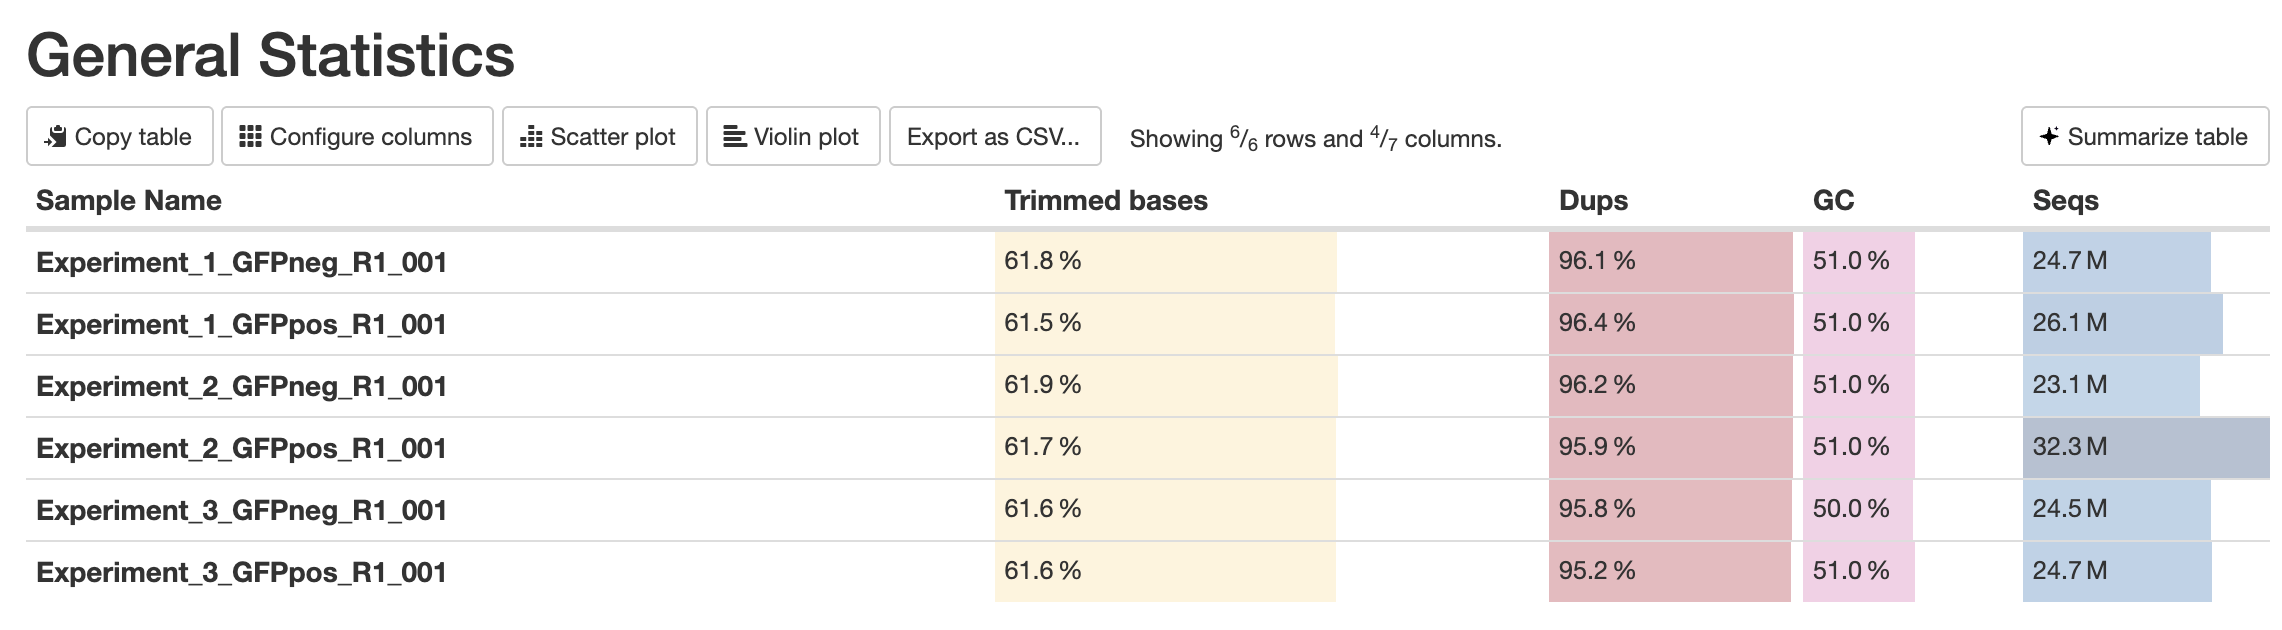
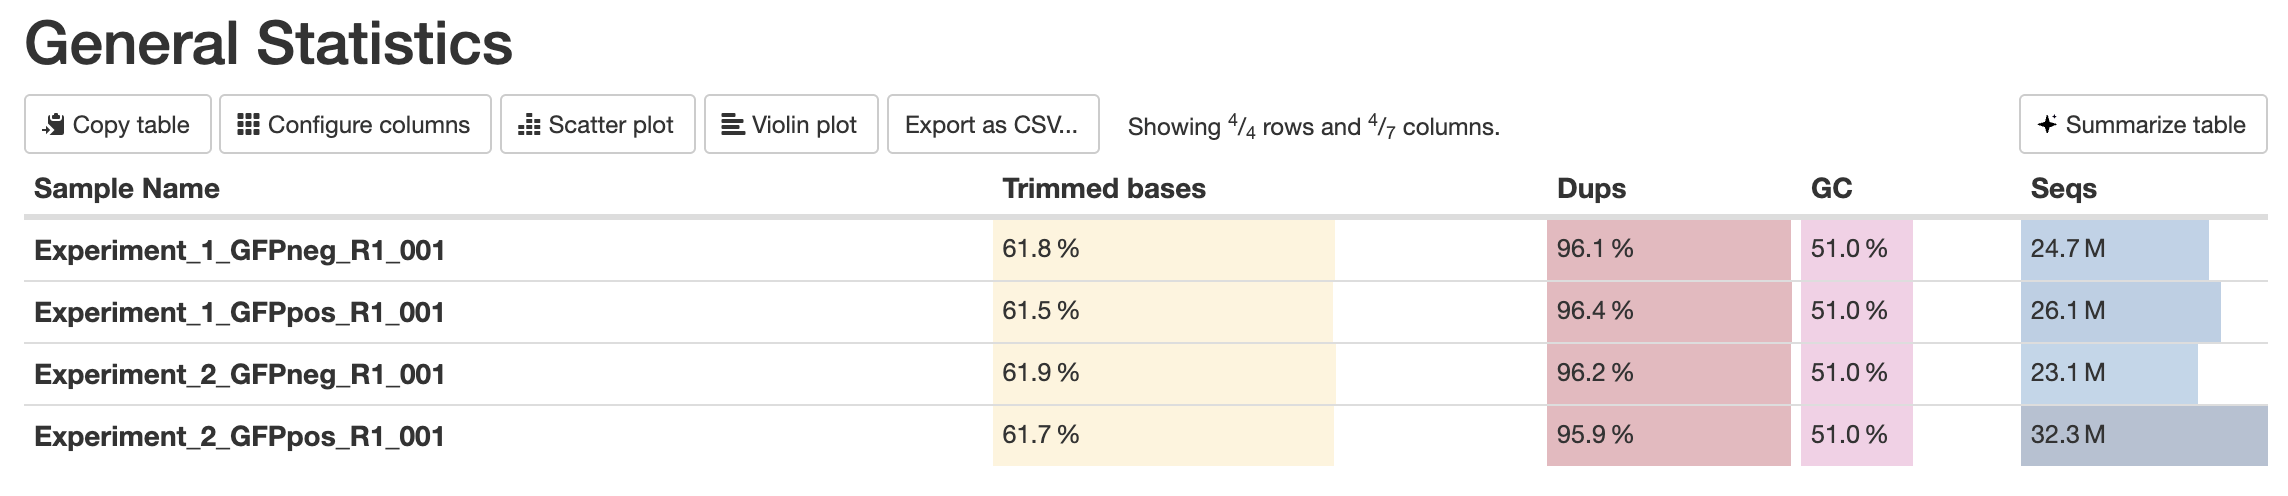
README update

diff --git a/README.md b/README.md
@@ -24,13 +24,6 @@ cd /athena/cayuga_0083/scratch/det4016/qibs-crispr-workshop
 ls
 ```
 
-You should see the following files and directories:
-
-```
-crispr_data/
-README.md
-```
-
 The FASTQ files for this workshop are located in the `crispr_data/01-fastq` directory:
 
 ```bash
@@ -50,14 +43,16 @@ Experiment_3_GFPpos_R1_001.fastq.gz
 These files correspond to sequencing reads from GFP-positive and GFP-negative sorted cell populations, respectively. 
 The cells used in this study contain a knock-in GFP reporter at the SOX17 locus, which is a key marker of endoderm fate. Therefore, the GFP-positive cells are expected to be enriched for guides promoting endoderm differentiation, while GFP-negative cells should be depleted of such guides.
 
+![Workflow Diagram](images/crispr-1.png)
+
+
 The data was collected across three separate experiments, with slightly different variations in the differentiation protocol used each time:
 - Experiment 1: Kieffer differentiation protocol, Day 2
 - Experiment 2: Kieffer differentiation protocol, Day 3
-- Experiment 3: Kroon differentiation protocol, Day 3
 
 To start, we will perform quality control and trimming on a single FASTQ file (`Experiment_1_GFPpos_R1_001.fastq.gz`) to demonstrate the workflow.
 
-Next, we will analyze the processed count files for all experiments located in the `/home/fs01/det4016/qibs-crispr-workshop/det4016/qibs-crispr-workshop/crispr_data/02-mageck_count` directory.
+Next, we will analyze the processed count files for all experiments located in the `/athena/cayuga_0083/scratch/det4016/qibs-crispr-workshop/crispr_data/02-mageck_count` directory.
 
 ### 3. Setup working directory
 ---
@@ -216,9 +211,86 @@ This command will generate a single HTML report that summarizes the quality metr
 
 MultiQC is especially useful when analyzing multiple samples, as it provides a convenient way to compare quality metrics across all samples in a single report. It also supports a wide range of bioinformatics tools, making it a great choice for summarizing quality control results (e.g. see [here](https://docs.seqera.io/multiqc/modules/)).
 
-To view an example, download the MultiQC report generated on the full set of FASTQ files provided for this workshop from `/home/fs01/det4016/qibs-crispr-workshop/det4016/qibs-crispr-workshop/crispr_data/02-processed_data/04-multiqc_report/multiqc_report.html`.
+To view an example, download the MultiQC report generated on the full set of FASTQ files provided for this workshop from `/athena/cayuga_0083/scratch/det4016/qibs-crispr-workshop/crispr_data/02-processed_data/04-multiqc_report/multiqc_report.html`.
 
 For example, here is the summary page from that report:
 ![MultiQC Report Example](images/multiqc-1.png)
 
-### 8. 
+### 8. Run MAGeCK count
+---
+To quantify the abundance of each gRNA in the trimmed FASTQ file, we will use the `mageck count` command from the MAGeCK suite. For this, we first need a reference table containing the gRNA sequences and their corresponding target genes. The reference table for this dataset can be found at `/athena/cayuga_0083/scratch/det4016/qibs-crispr-workshop/crispr_data/02-processed_data/05-grna_table/brunello_gRNA_sequences.csv`.
+
+```bash
+# Display the first few lines of the gRNA reference table
+head -n 10 /athena/cayuga_0083/scratch/det4016/qibs-crispr-workshop/crispr_data/02-processed_data/05-grna_table/brunello_gRNA_sequences.csv
+```
+
+You should see output similar to the following:
+```
+A1BG_1,CATCTTCTTTCACCTGAACG,A1BG
+A1BG_2,CTCCGGGGAGAACTCCGGCG,A1BG
+A1BG_3,TCTCCATGGTGCATCAGCAC,A1BG
+A1BG_4,TGGAAGTCCACTCCACTCAG,A1BG
+A2M_1,ACTGCATCTGTGCAAACGGG,A2M
+A2M_2,ATGTCTCATGAACTACCCTG,A2M
+A2M_3,TGAAATGAAACTTCACACTG,A2M
+A2M_4,TTACTCATATAGGATCCCAA,A2M
+NAT1_1,CGGAAGACACAAGGCACCTG,NAT1
+NAT1_2,GAACCTTAACATCCATTGTG,NAT1
+```
+
+The column structure is as follows:
+- Column 1: gRNA identifier
+- Column 2: gRNA sequence
+- Column 3: Target gene
+
+Now, we can run `mageck count` to quantify the gRNA abundances in the trimmed FASTQ. For this step, we will use pre-processed FASTQ files for the entire dataset, which can be found in `/athena/cayuga_0083/scratch/det4016/qibs-crispr-workshop/crispr_data/02-processed_data/02-cutadapt`.
+
+```bash
+# List the trimmed FASTQ files
+ls /athena/cayuga_0083/scratch/det4016/qibs-crispr-workshop/crispr_data/02-processed_data/02-cutadapt/*.fastq.gz
+
+# Create output directory for MAGeCK count results
+mkdir 05-mageck_count
+
+# Run MAGeCK count on all trimmed FASTQ files
+time mageck count \
+    --fastq /athena/cayuga_0083/scratch/det4016/qibs-crispr-workshop/crispr_data/02-processed_data/02-cutadapt/Experiment_1_GFPneg_R1_001.trimmed.fastq.gz /athena/cayuga_0083/scratch/det4016/qibs-crispr-workshop/crispr_data/02-processed_data/02-cutadapt/Experiment_1_GFPpos_R1_001.trimmed.fastq.gz /athena/cayuga_0083/scratch/det4016/qibs-crispr-workshop/crispr_data/02-processed_data/02-cutadapt/Experiment_2_GFPneg_R1_001.trimmed.fastq.gz /athena/cayuga_0083/scratch/det4016/qibs-crispr-workshop/crispr_data/02-processed_data/02-cutadapt/Experiment_2_GFPpos_R1_001.trimmed.fastq.gz \
+    --sample-label Experiment1_GFPneg,Experiment1_GFPpos,Experiment2_GFPneg,Experiment2_GFPpos \
+    --list-seq /athena/cayuga_0083/scratch/det4016/qibs-crispr-workshop/crispr_data/02-processed_data/05-grna_table/brunello_gRNA_sequences.csv \
+    -n 05-mageck_count/CRISPR_screen_counts_1 \
+    --pdf-report
+
+# time mageck count \
+#     --fastq $(echo /athena/cayuga_0083/scratch/det4016/qibs-crispr-workshop/crispr_data/02-processed_data/02-cutadapt/*.fastq.gz) \
+#     --sample-label Experiment1_GFPpos,Experiment1_GFPneg,Experiment2_GFPpos,Experiment2_GFPneg,Experiment3_GFPpos,Experiment3_GFPneg \
+#     --list-seq /athena/cayuga_0083/scratch/det4016/qibs-crispr-workshop/crispr_data/02-processed_data/05-grna_table/brunello_gRNA_sequences.csv \
+#     -n 05-mageck_count/CRISPR_screen_counts \
+#     --pdf-report
+```
+
+This command should take approximately 4 minutes. The `mageck count` program will generate a count table containing the abundance of each gRNA in each sample, as well as a PDF report summarizing the results. We can inspect the count table:
+
+```bash
+# View the first few lines of the MAGeCK count table
+head -n 10 05-mageck_count/CRISPR_screen_counts.count.txt
+```
+
+You should see output similar to the following:
+```
+sgRNA   Gene    sample1 sample2 sample3 sample4
+OR4K14_2        OR4K14  843     733     767     1243
+PRDM1_3 PRDM1   87      43      103     118
+VTCN1_4 VTCN1   544     581     535     785
+IQCF6_2 IQCF6   256     390     246     278
+RFXAP_4 RFXAP   178     123     121     116
+GLTP_4  GLTP    459     471     475     576
+C11orf24_3      C11orf24        1358    1714    1027    1423
+C7orf69_4       C7orf69 184     149     178     297
+NLGN4Y_3        NLGN4Y  422     764     420     721
+```
+
+The columns correspond to:
+- Column 1: gRNA identifier
+- Column 2: Target gene
+- Columns 3-6: gRNA counts in each sample
